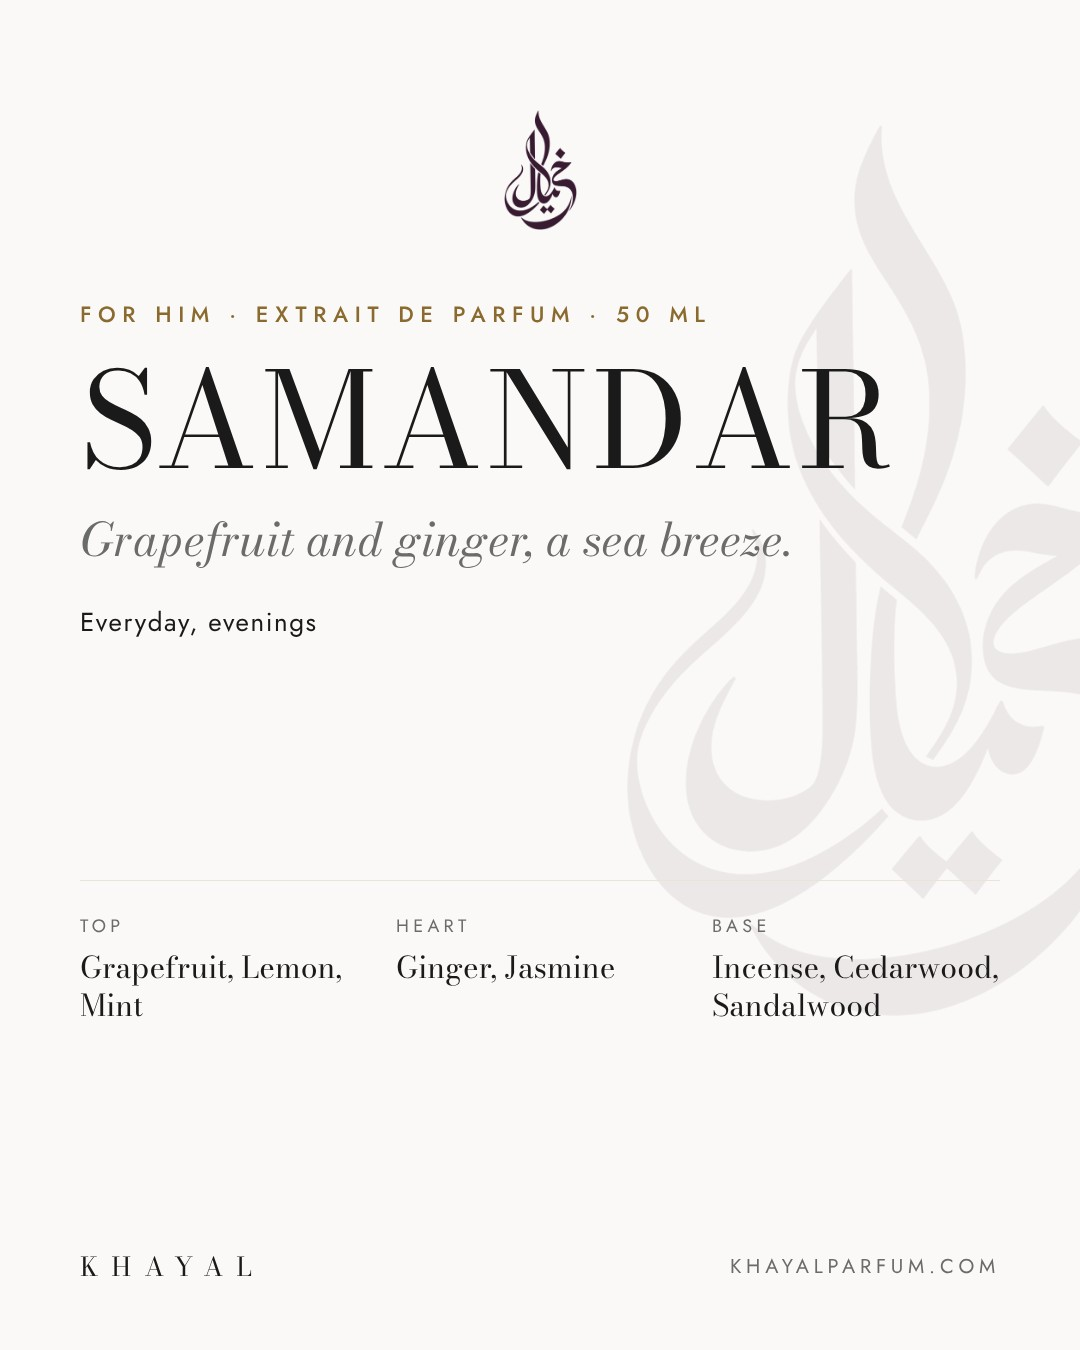
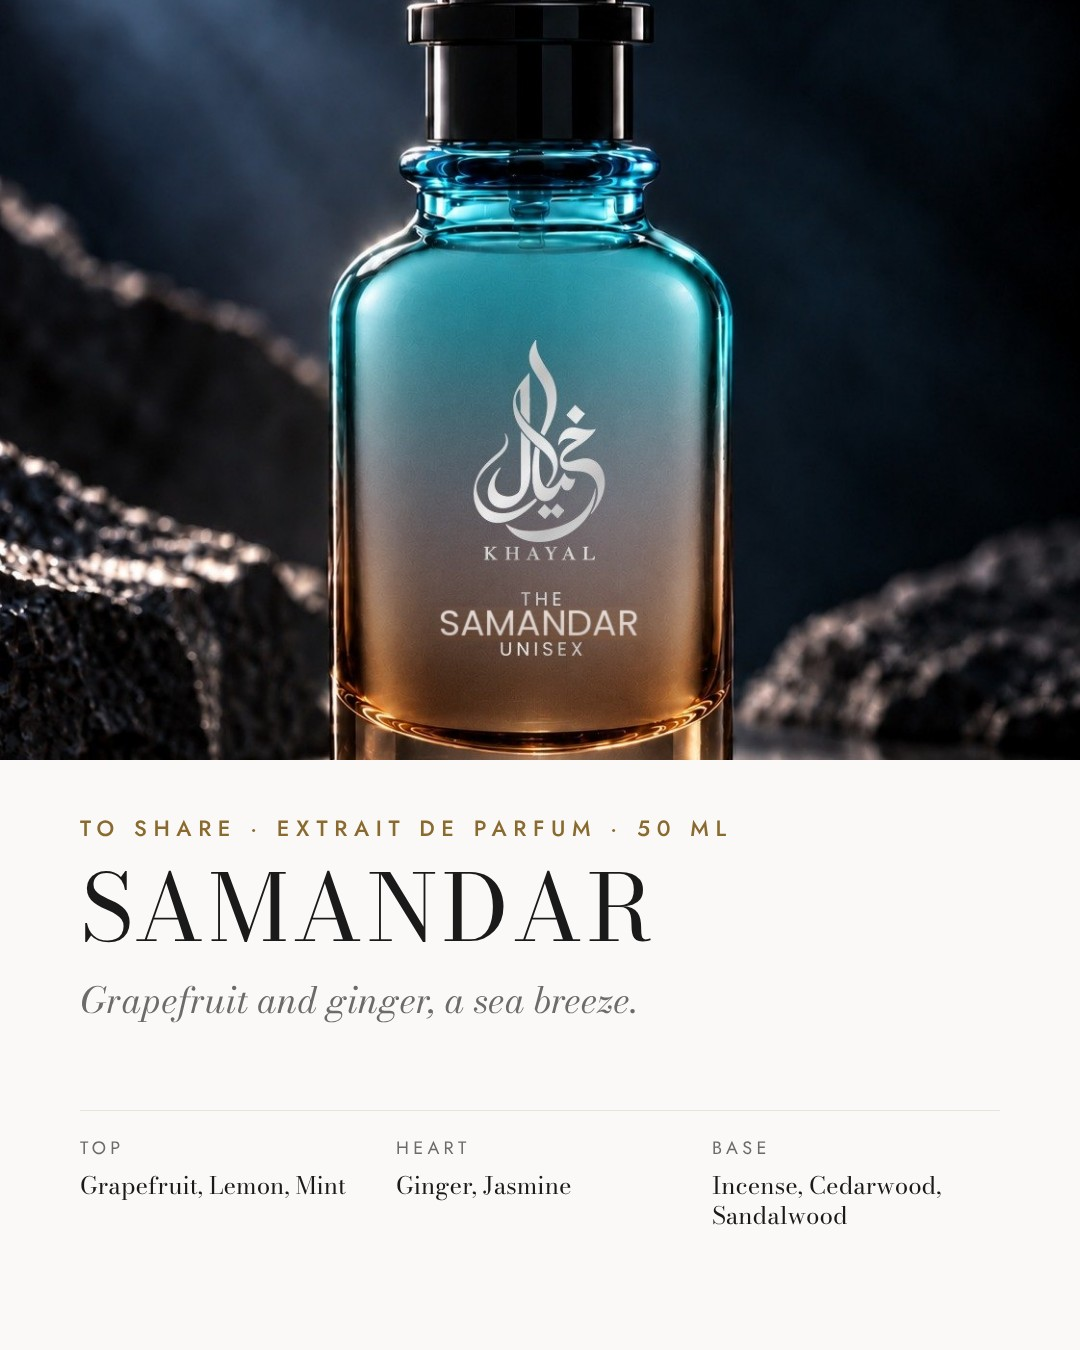
SAMANDAR: unisex, bottle photo on product and launch post
Claude-Session: https://claude.ai/code/session_01C4GrgH1Xxvk9KJ3nrHuYhG

diff --git a/lib/fragrance-copy.ts b/lib/fragrance-copy.ts
@@ -13,7 +13,7 @@ export const fragranceCopy: Record<string, FragranceCopy> = {
   "oud-musk": { line: "Rose and oud, softened with amber.", audience: "To share" },
   dastaan: { line: "Lavender and cinnamon on soft leather.", audience: "For him" },
   "khayal-cherie-womens-perfume": { line: "Peach, rose and powdery orris.", audience: "For her" },
-  samandar: { line: "Grapefruit and ginger, a sea breeze.", audience: "For him" },
+  samandar: { line: "Grapefruit and ginger, a sea breeze.", audience: "To share" },
   bahaar: { line: "Jasmine and gardenia in spring.", audience: "For her" },
   victor: { line: "Orange and spice for the evening.", audience: "For him" },
   "crystal-noor": { line: "Pomegranate and peony, sunlit.", audience: "For her" },

diff --git a/marketing/social-kit/voice.md b/marketing/social-kit/voice.md
@@ -41,7 +41,7 @@ Last updated: 12 Oct 2026
 | SILK ROYALE | Women | Warm floral, evenings, weddings | Saffron, osmanthus, magnolia · tuberose, passion fruit, patchouli, oud · Madagascar vanilla, ambroxan, myrrh, musk, incense, cedarwood |
 | OUD MUSK | Unisex | Smooth oud, evenings, weddings | Saffron, cardamom · oud, rose · white musk, sandalwood, amber |
 | DASTAAN | Men | Bold, warm, woody | Lavender, mint, bergamot · cinnamon, clary sage · cedarwood, tonka, leather |
-| SAMANDAR | Men | Fresh citrus, incense trail | Grapefruit, lemon, mint · ginger, jasmine · incense, cedarwood, sandalwood |
+| SAMANDAR | Unisex | Fresh citrus, incense trail | Grapefruit, lemon, mint · ginger, jasmine · incense, cedarwood, sandalwood |
 | VICTOR | Men | Citrus and spice | Lemon, orange, cardamom · cinnamon, nutmeg · vetiver, cedarwood, tonka |
 | DARK ICE | Men | Fresh by day, dark by night | Grapefruit, mint, black pepper · ginger, sage · patchouli, suede, musk |
 | JAZBA | Men | Fruity, sweet, dates and nights out | Apple, pineapple, bergamot · cinnamon, rose · vanilla, sandalwood, amber |
